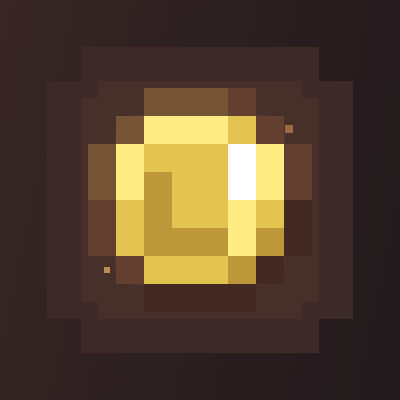
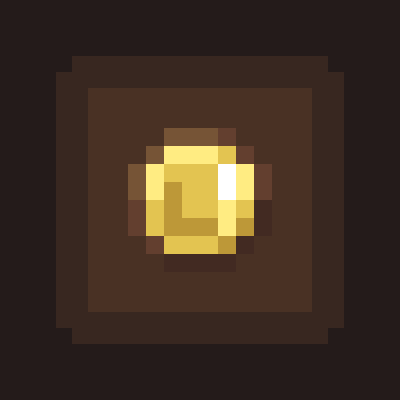
Rebuild Coinage branding from in-game pixel art

diff --git a/NOTICE.md b/NOTICE.md
@@ -5,3 +5,5 @@ The default villager trade definitions and item tags are adapted from Numismatic
 The default coin, money-bag, piggy-bank, shop, and pawn-shop artwork, models, and piggy-bank breaking sound are adapted from Numismatic Overhaul. Their original MIT copyright and license notice is included in LICENSE-UPSTREAM.
 
 Gold adapts the original silver sprites, and platinum recolors the original gold sprites. Both retain the original 16×16 grid.
+
+The Coinage logo and banner use Coinage's in-game coin, money bag, and shop textures with separately composed backgrounds and typography.

diff --git a/docs/mod-page.md b/docs/mod-page.md
@@ -1,4 +1,4 @@
-![Coinage banner](https://raw.githubusercontent.com/BareMinimumStudios/coinage/main/docs/branding/banner.png)
+![Coinage banner](https://raw.githubusercontent.com/BareMinimumStudios/coinage/main/docs/branding/coinage-banner.png)
 
 <p align="center" style="text-align: center;">
   <a href="https://modrinth.com/mod/coinage-poke097"><img src="https://img.shields.io/badge/Modrinth-79501D?style=for-the-badge&amp;logo=modrinth&amp;logoColor=FFE6A1" alt="Modrinth" height="28"></a>

diff --git a/README.md b/README.md
@@ -1,6 +1,6 @@
 # Coinage
 
-![Coinage banner](docs/branding/banner.png)
+![Coinage banner](docs/branding/coinage-banner.png)
 
 Coinage adds physical coins, a personal purse, piggy banks, player shops, pawn shops, and currency trades for villagers and wandering traders.
 
